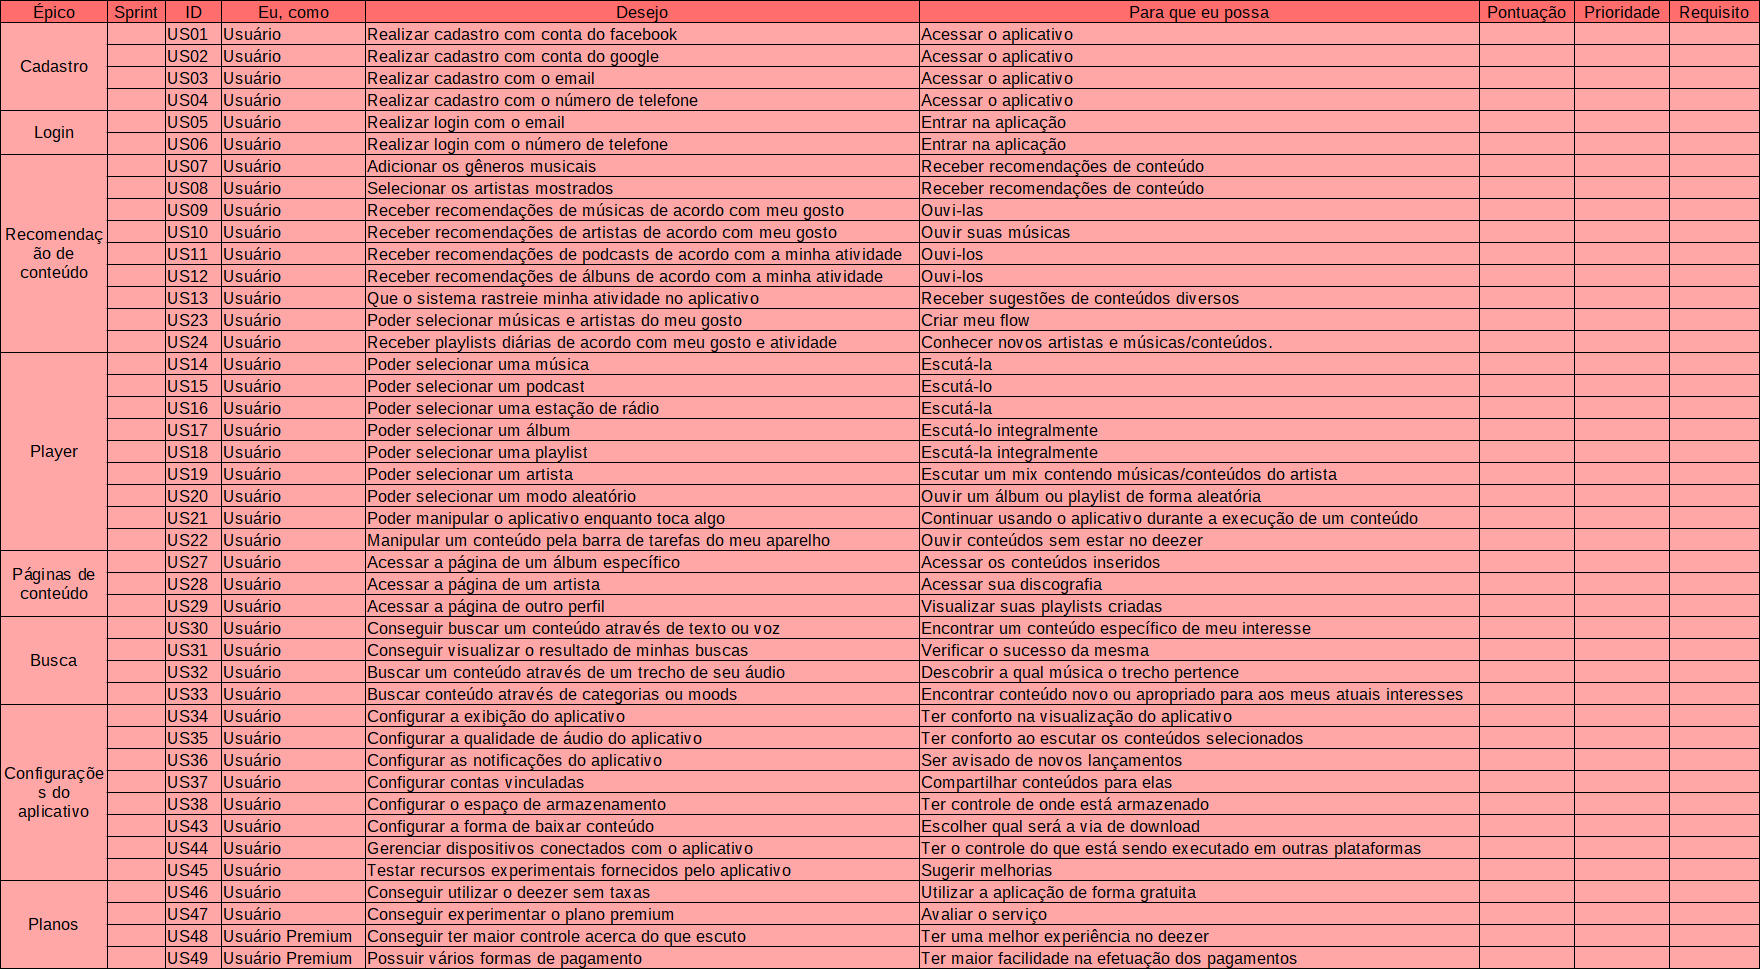
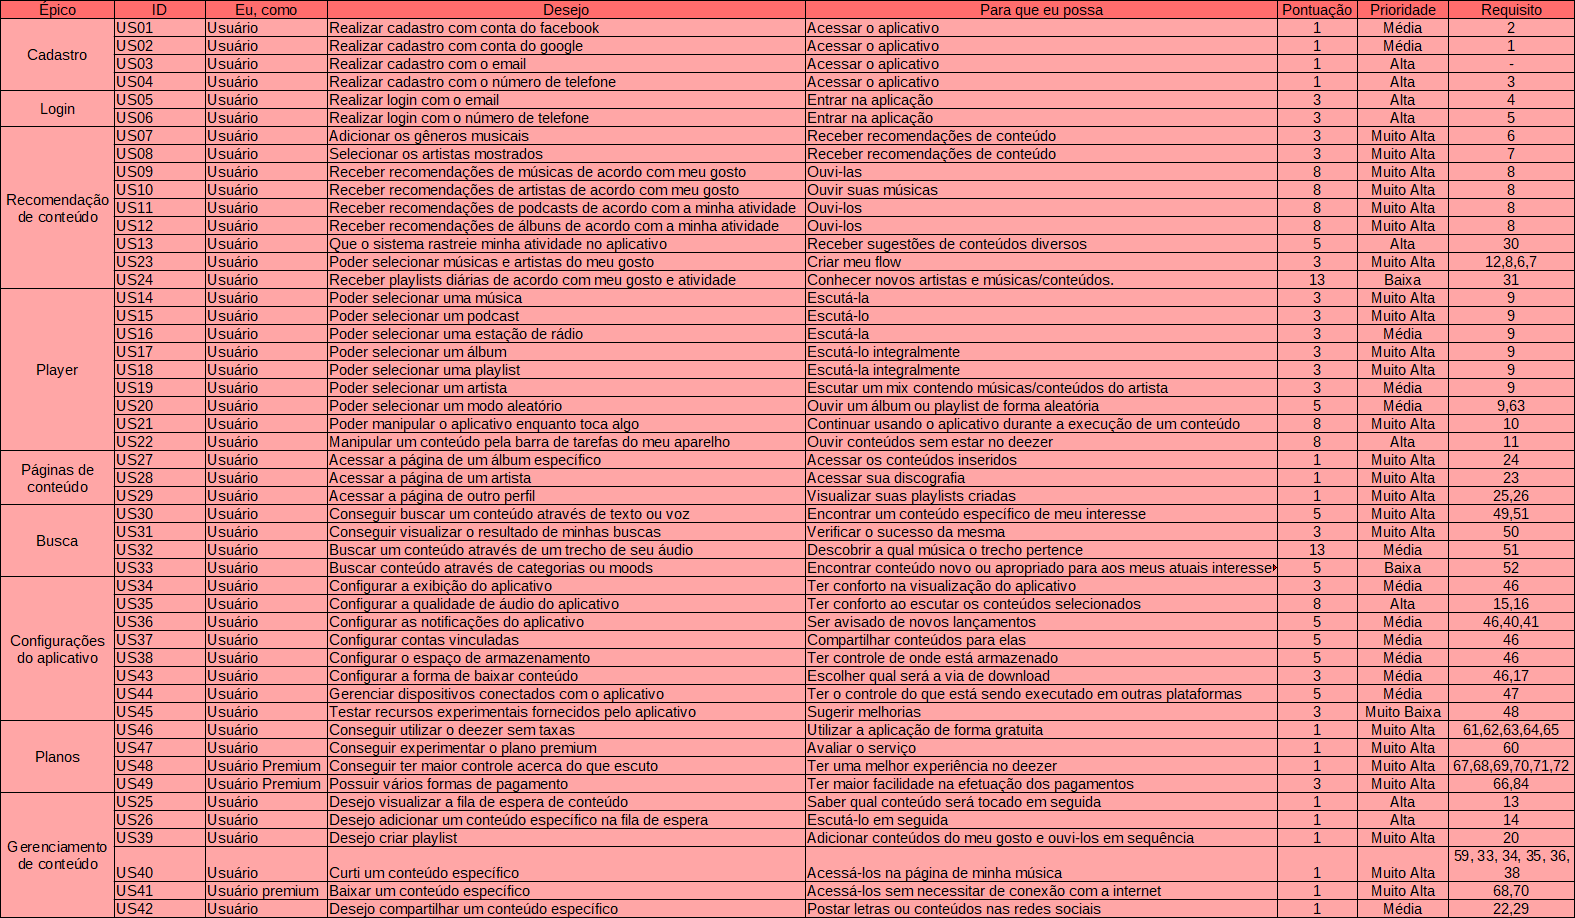
Updating backlog

diff --git a/docs/modelagem/historia_de_usuario.md b/docs/modelagem/historia_de_usuario.md
@@ -57,8 +57,8 @@ Para melhor organização, separamos as histórias em seus respectivos épicos, 
 ## Participantes
 - Micaella
 - Samuel
-- Eduardo
-- Sofia
+- Eduardo (Priorização)
+- Sofia (Priorização)
 
 ## Backlog
 
